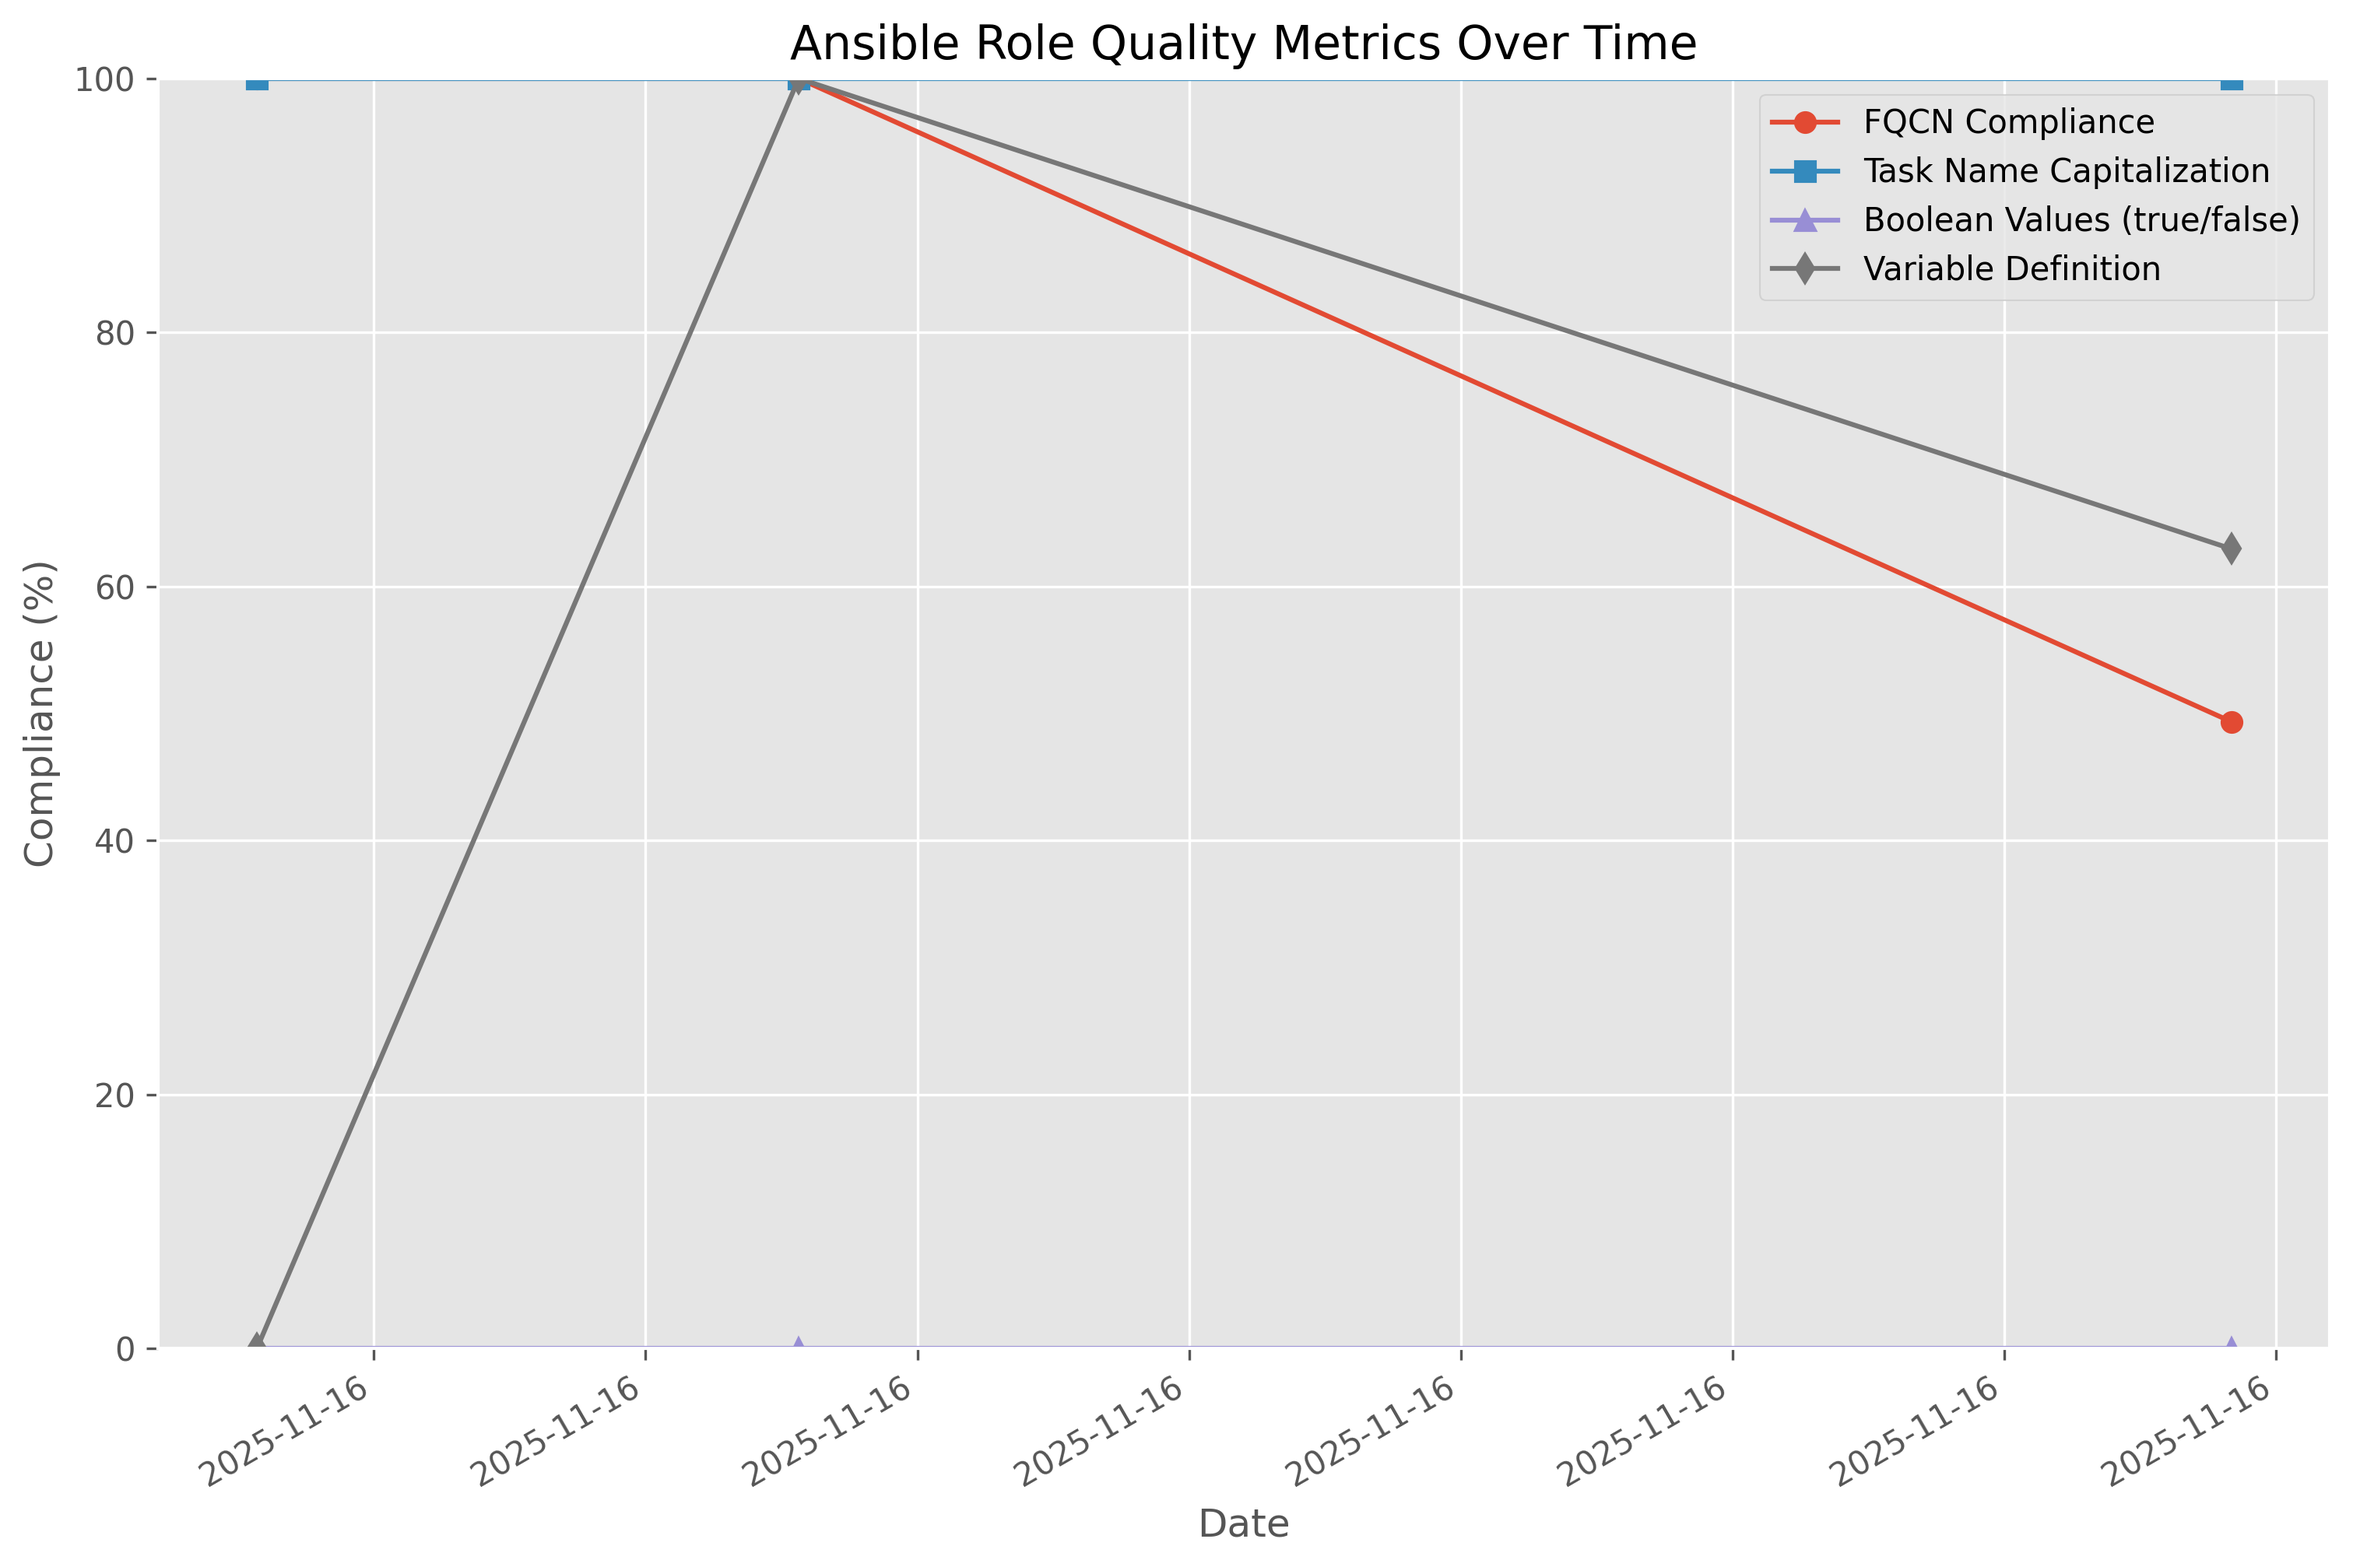
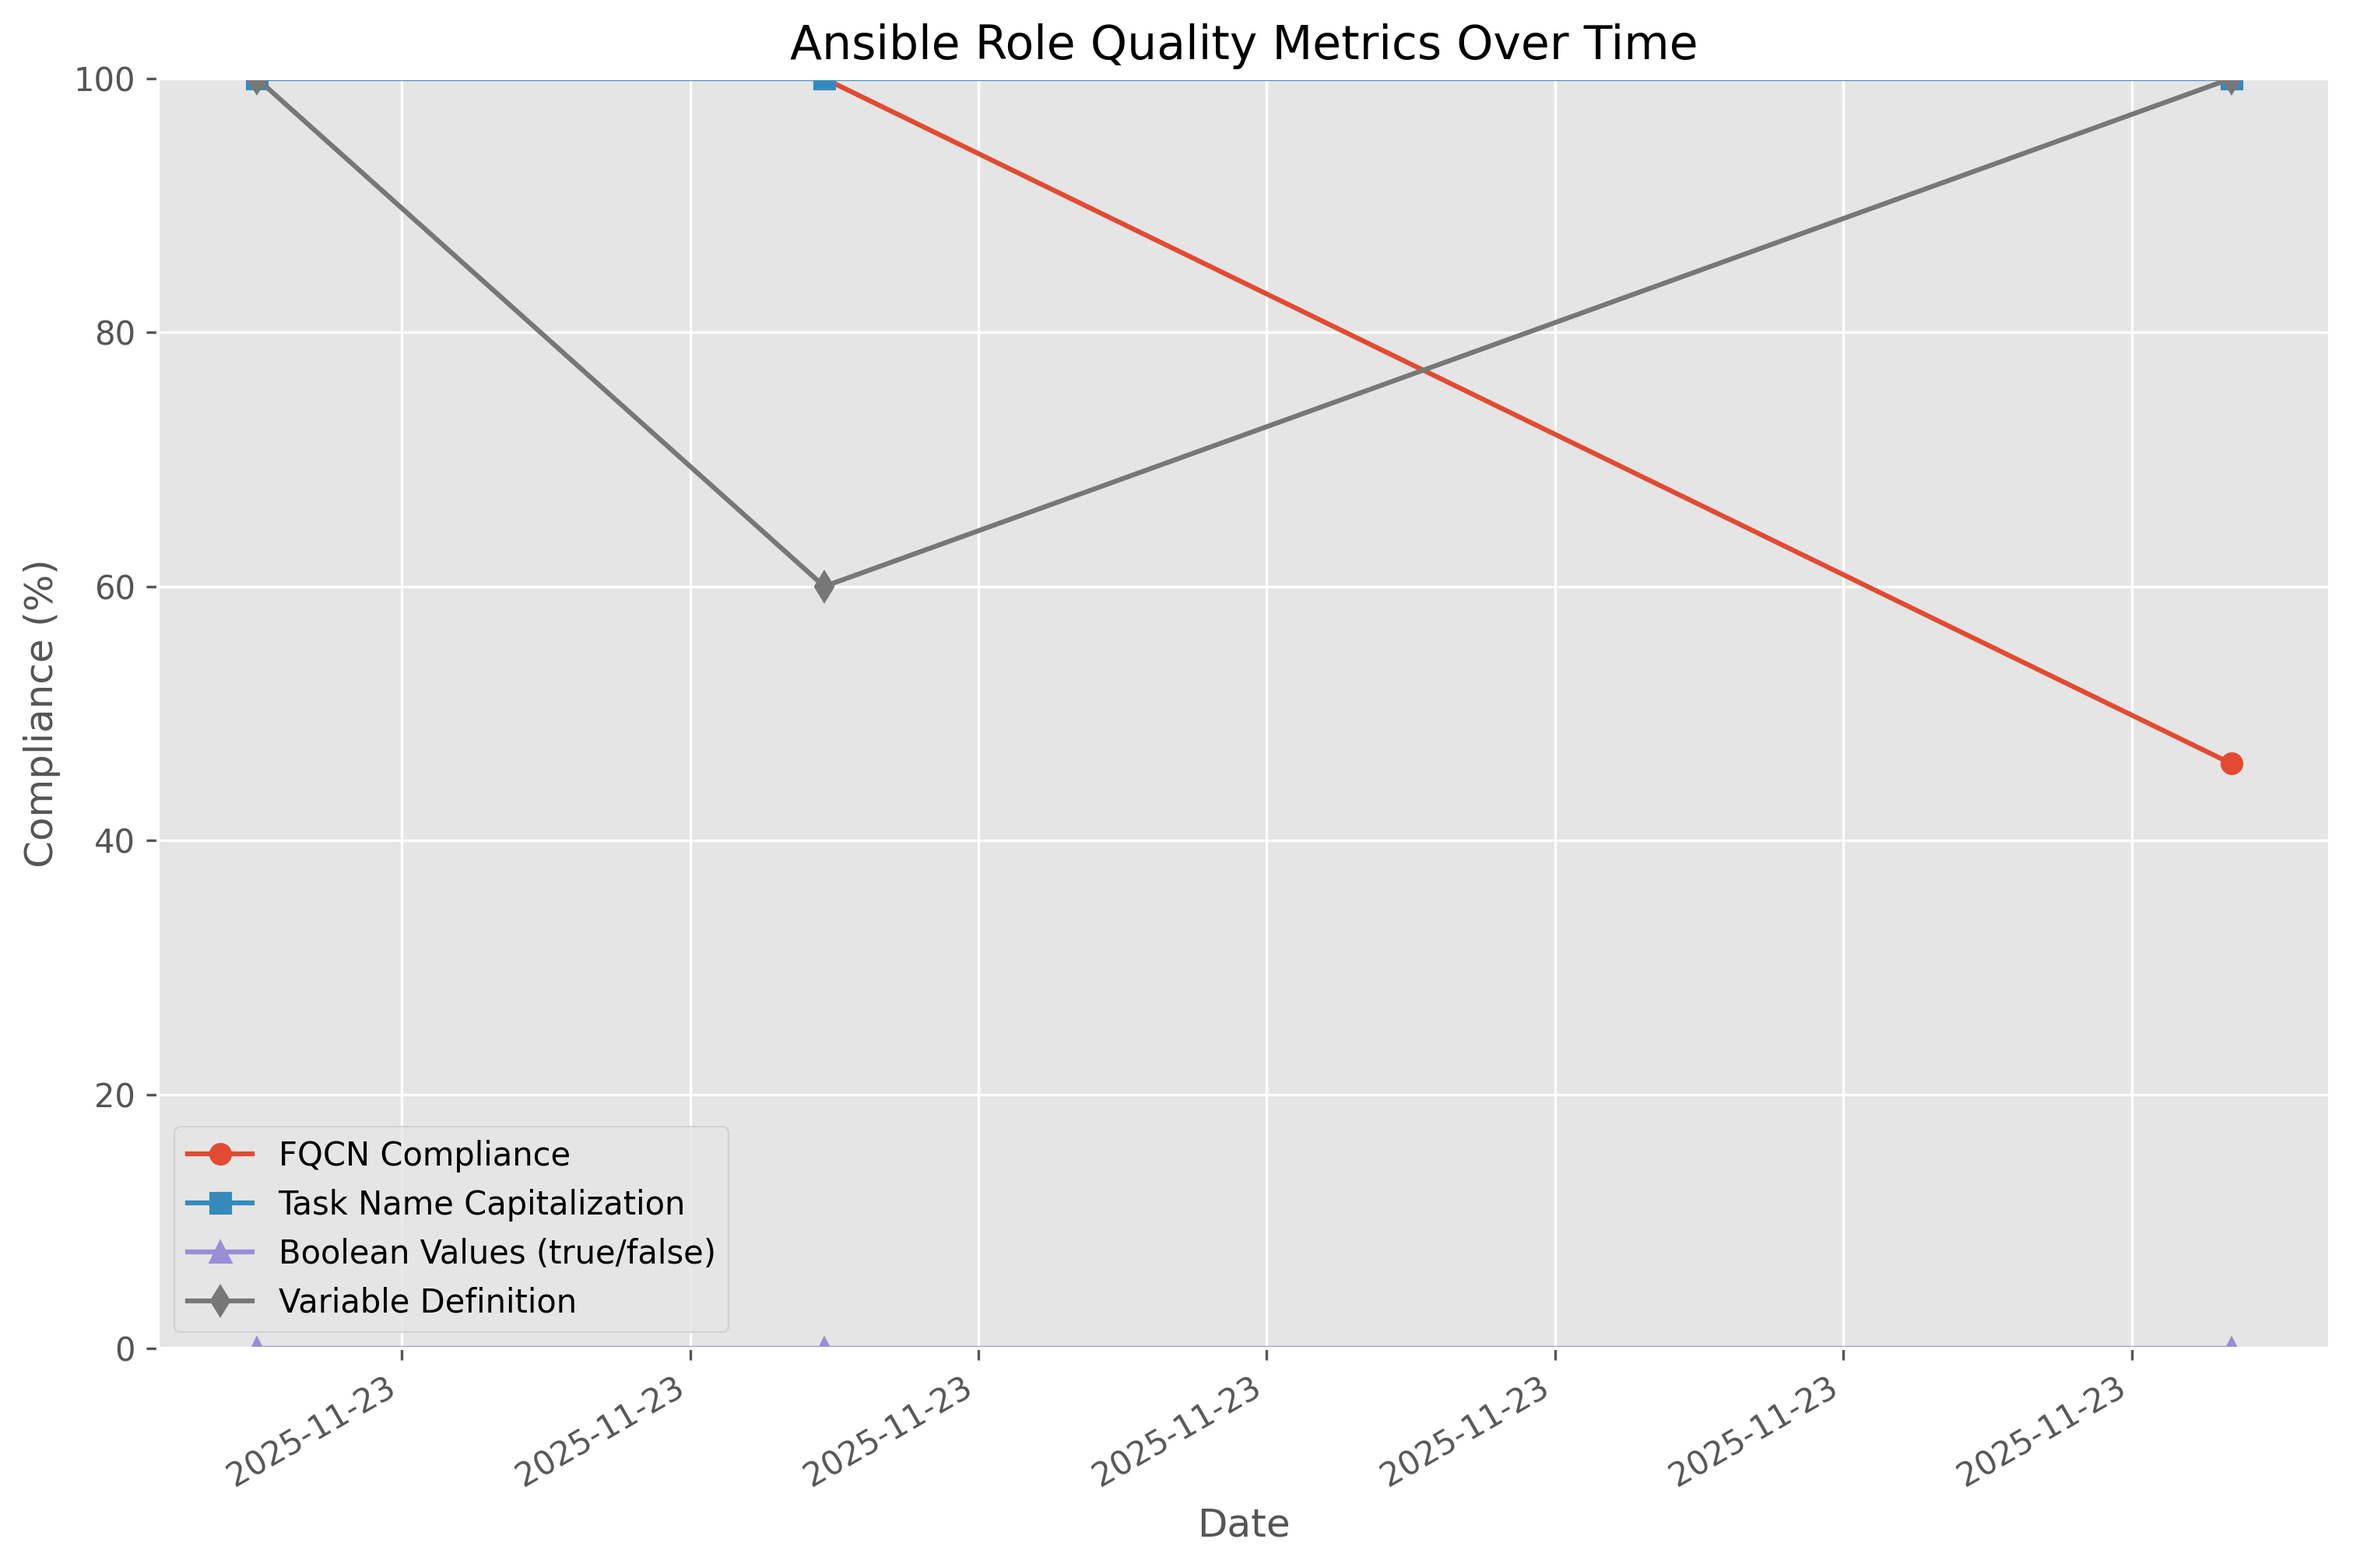
Update metrics (automated) 86381e575e3cb567ae7d61f2b827ec3665fe9a28

diff --git a/metrics/metrics_summary.md b/metrics/metrics_summary.md
@@ -1,15 +1,15 @@
 # Chef to Ansible Conversion Metrics
 
-Last updated: 2025-11-16 00:28:57
+Last updated: 2025-11-23 00:30:12
 
 ## Latest Compliance Metrics
 
 | Metric | Value |
 |--------|-------|
-| FQCN Compliance (%) | 49.35% |
+| FQCN Compliance (%) | 46.05% |
 | Task Name Capitalization (%) | 100.00% |
 | Boolean Values (true/false) (%) | 0.00% |
-| Variable Definition (%) | 62.96% |
+| Variable Definition (%) | 100.00% |
 
 ## Compliance Metrics Over Time
 
